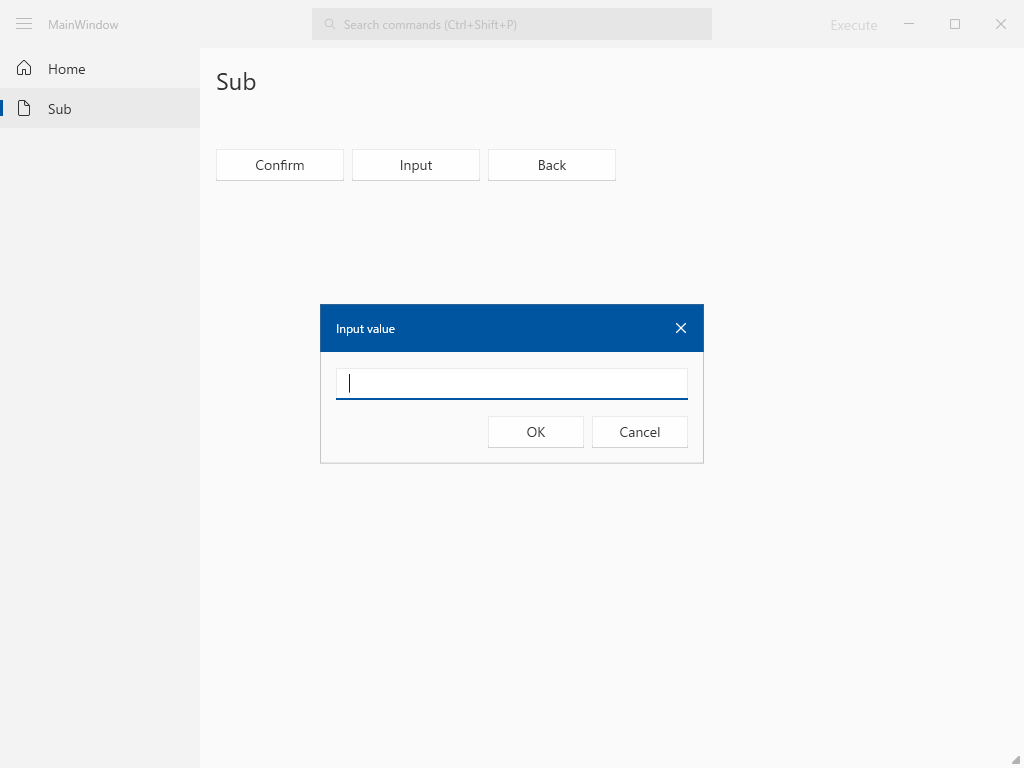
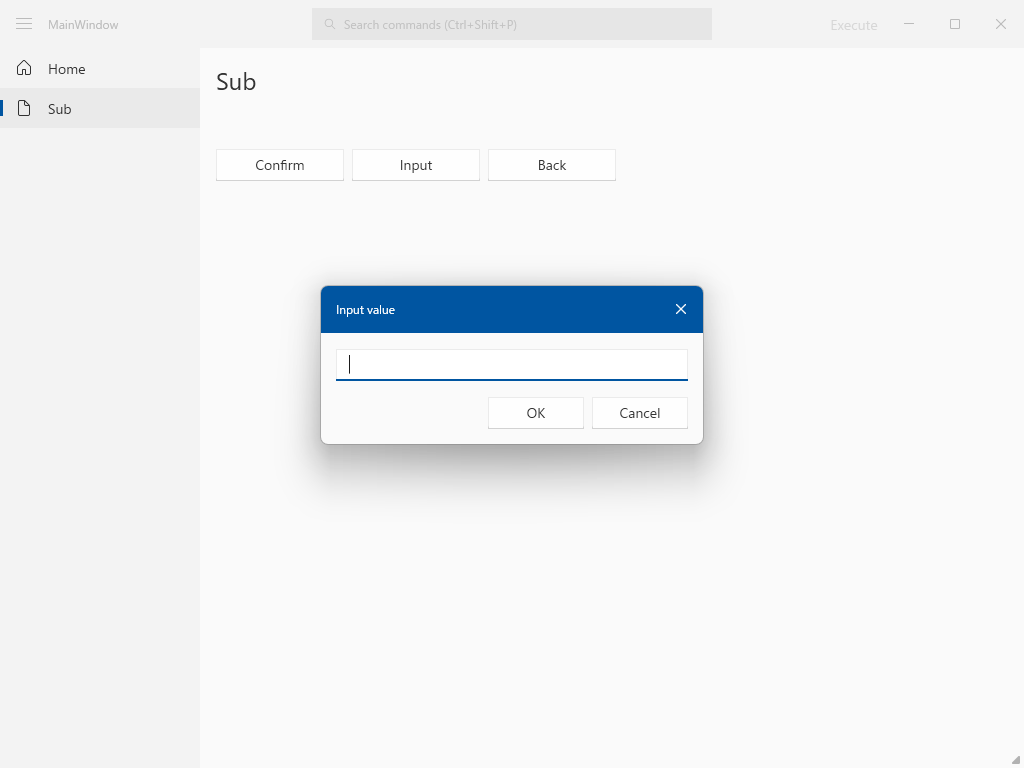
Update

Changed region(s): [[0.2812, 0.3438, 0.7188, 0.6562]]

diff --git a/src/Template.WindowsApp/Themes/Generic.xaml b/src/Template.WindowsApp/Themes/Generic.xaml
@@ -73,7 +73,6 @@
     <Style TargetType="{x:Type controls:AppWindow}">
         <Setter Property="Background" Value="{DynamicResource WindowBackground}" />
         <Setter Property="Foreground" Value="{DynamicResource WindowForeground}" />
-        <Setter Property="WindowStyle" Value="None" />
         <Setter Property="WindowChrome.WindowChrome">
             <Setter.Value>
                 <WindowChrome CornerRadius="0"
@@ -84,7 +83,8 @@
         <Setter Property="Template">
             <Setter.Value>
                 <ControlTemplate TargetType="{x:Type controls:AppWindow}">
-                    <Border Background="{TemplateBinding Background}">
+                    <Border x:Name="RootBorder"
+                            Background="{TemplateBinding Background}">
                         <Grid>
                             <Grid.RowDefinitions>
                                 <RowDefinition Height="48" />
@@ -145,13 +145,6 @@
                                         Visibility="Collapsed"
                                         IsTabStop="False"
                                         WindowChrome.IsHitTestVisibleInChrome="True" WindowChrome.ResizeGripDirection="BottomRight" />
-
-                            <Border x:Name="WindowBorder"
-                                    Grid.Row="0" Grid.RowSpan="2"
-                                    Visibility="Collapsed"
-                                    IsHitTestVisible="False"
-                                    BorderBrush="{DynamicResource SurfaceStrokeColorDefaultBrush}"
-                                    BorderThickness="1" />
                         </Grid>
                     </Border>
                     <ControlTemplate.Triggers>
@@ -174,13 +167,13 @@
                             <Setter TargetName="TitleBarContentPresenter" Property="Visibility" Value="Collapsed" />
                         </Trigger>
                         <Trigger Property="WindowState" Value="Maximized">
+                            <Setter TargetName="RootBorder" Property="Padding" Value="8" />
                             <Setter TargetName="PART_MaximizeButton" Property="AutomationProperties.Name" Value="Restore" />
                             <Setter TargetName="PART_MaximizeButton" Property="Content" Value="&#xE923;" />
                         </Trigger>
                         <Trigger Property="ResizeMode" Value="NoResize">
                             <Setter TargetName="PART_MinimizeButton" Property="Visibility" Value="Collapsed" />
                             <Setter TargetName="PART_MaximizeButton" Property="Visibility" Value="Collapsed" />
-                            <Setter TargetName="WindowBorder" Property="Visibility" Value="Visible" />
                         </Trigger>
                         <Trigger Property="ResizeMode" Value="CanMinimize">
                             <Setter TargetName="PART_MaximizeButton" Property="Visibility" Value="Collapsed" />

diff --git a/src/Template.WindowsApp/Views/MainWindow.xaml b/src/Template.WindowsApp/Views/MainWindow.xaml
@@ -240,7 +240,7 @@
                IsOpen="{Binding Palette.IsOpen}"
                AllowsTransparency="True" Placement="Bottom"
                PlacementTarget="{Binding ElementName=PaletteAnchor}"
-               StaysOpen="False">
+               StaysOpen="False" VerticalOffset="-40">
             <i:Interaction.Triggers>
                 <i:EventTrigger EventName="Opened">
                     <s:SetFocusAction TargetObject="{Binding ElementName=CommandText}" />

diff --git a/src/Template.WindowsApp/Controls/NativeMethods.cs b/src/Template.WindowsApp/Controls/NativeMethods.cs
@@ -4,8 +4,6 @@ using System.Runtime.InteropServices;
 
 internal static partial class NativeMethods
 {
-    public const int WmGetMinMaxInfo = 0x0024;
-
     public const int WmNcHitTest = 0x0084;
 
     public const int WmNcMouseMove = 0x00A0;
@@ -20,46 +18,9 @@ internal static partial class NativeMethods
 
     public const int HtMaxButton = 9;
 
-    private const uint MonitorDefaultToNearest = 0x00000002;
-
     private const uint TrackMouseLeave = 0x00000002;
 
     private const uint TrackMouseNonClient = 0x00000010;
-
-    [StructLayout(LayoutKind.Sequential)]
-    private struct Point
-    {
-        public int X;
-        public int Y;
-    }
-
-    [StructLayout(LayoutKind.Sequential)]
-    private struct MinMaxInfo
-    {
-        public Point Reserved;
-        public Point MaxSize;
-        public Point MaxPosition;
-        public Point MinTrackSize;
-        public Point MaxTrackSize;
-    }
-
-    [StructLayout(LayoutKind.Sequential)]
-    private struct Rect
-    {
-        public int Left;
-        public int Top;
-        public int Right;
-        public int Bottom;
-    }
-
-    [StructLayout(LayoutKind.Sequential)]
-    private struct MonitorInfo
-    {
-        public int Size;
-        public Rect Monitor;
-        public Rect Work;
-        public uint Flags;
-    }
 
     [StructLayout(LayoutKind.Sequential)]
     private struct TrackMouseEventInfo
@@ -72,39 +33,8 @@ internal static partial class NativeMethods
 
     [LibraryImport("user32.dll")]
     [DefaultDllImportSearchPaths(DllImportSearchPath.System32)]
-    private static partial IntPtr MonitorFromWindow(IntPtr hwnd, uint flags);
-
-    [LibraryImport("user32.dll", EntryPoint = "GetMonitorInfoW")]
-    [DefaultDllImportSearchPaths(DllImportSearchPath.System32)]
-    [return: MarshalAs(UnmanagedType.Bool)]
-    private static partial bool GetMonitorInfo(IntPtr monitor, ref MonitorInfo info);
-
-    [LibraryImport("user32.dll")]
-    [DefaultDllImportSearchPaths(DllImportSearchPath.System32)]
     [return: MarshalAs(UnmanagedType.Bool)]
     private static partial bool TrackMouseEvent(ref TrackMouseEventInfo info);
-
-    public static void FitMaximizedToWorkArea(IntPtr hwnd, IntPtr lParam)
-    {
-        var monitor = MonitorFromWindow(hwnd, MonitorDefaultToNearest);
-        if (monitor == IntPtr.Zero)
-        {
-            return;
-        }
-
-        var info = new MonitorInfo { Size = Marshal.SizeOf<MonitorInfo>() };
-        if (!GetMonitorInfo(monitor, ref info))
-        {
-            return;
-        }
-
-        var mmi = Marshal.PtrToStructure<MinMaxInfo>(lParam);
-        mmi.MaxPosition.X = info.Work.Left - info.Monitor.Left;
-        mmi.MaxPosition.Y = info.Work.Top - info.Monitor.Top;
-        mmi.MaxSize.X = info.Work.Right - info.Work.Left;
-        mmi.MaxSize.Y = info.Work.Bottom - info.Work.Top;
-        Marshal.StructureToPtr(mmi, lParam, false);
-    }
 
     public static void TrackNonClientMouseLeave(IntPtr hwnd)
     {

diff --git a/src/Template.WindowsApp/Controls/AppWindow.cs b/src/Template.WindowsApp/Controls/AppWindow.cs
@@ -84,9 +84,6 @@ public partial class AppWindow : Window
     {
         switch (msg)
         {
-            case NativeMethods.WmGetMinMaxInfo:
-                NativeMethods.FitMaximizedToWorkArea(hwnd, lParam);
-                break;
             case NativeMethods.WmNcHitTest when IsOverMaximizeButton(lParam):
                 handled = true;
                 return NativeMethods.HtMaxButton;
